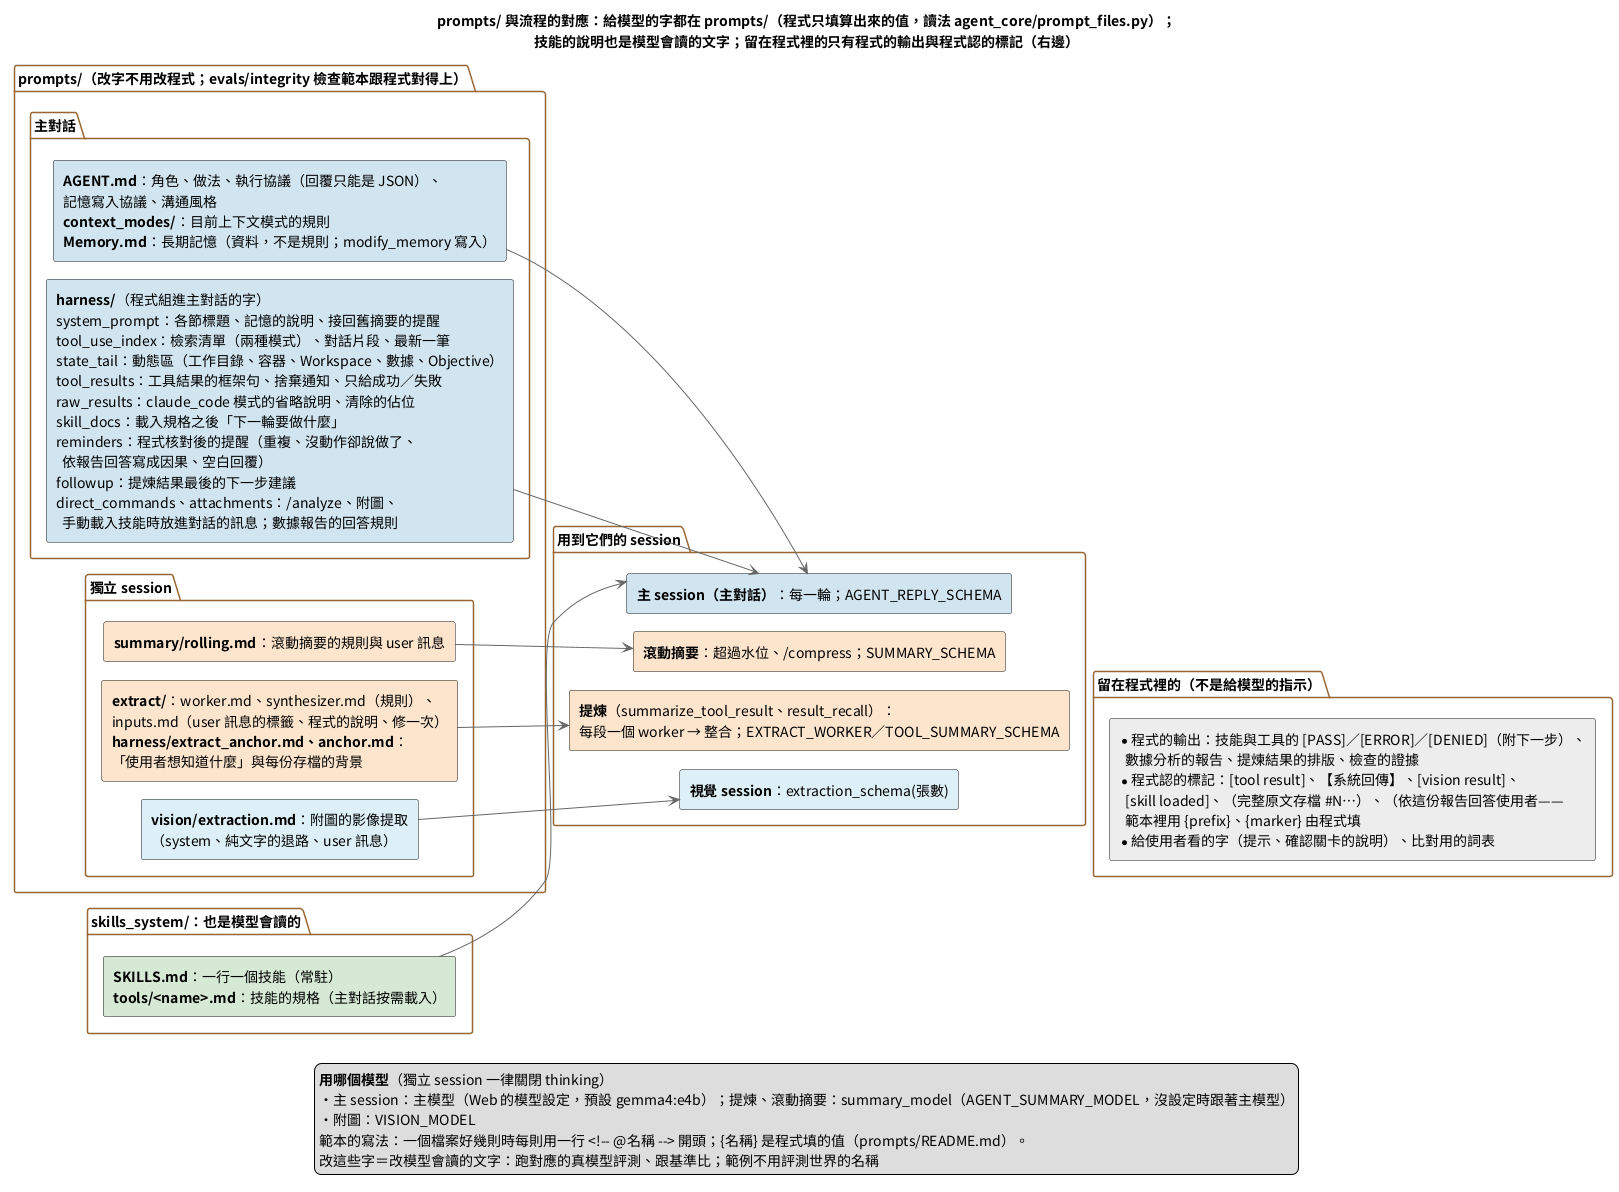
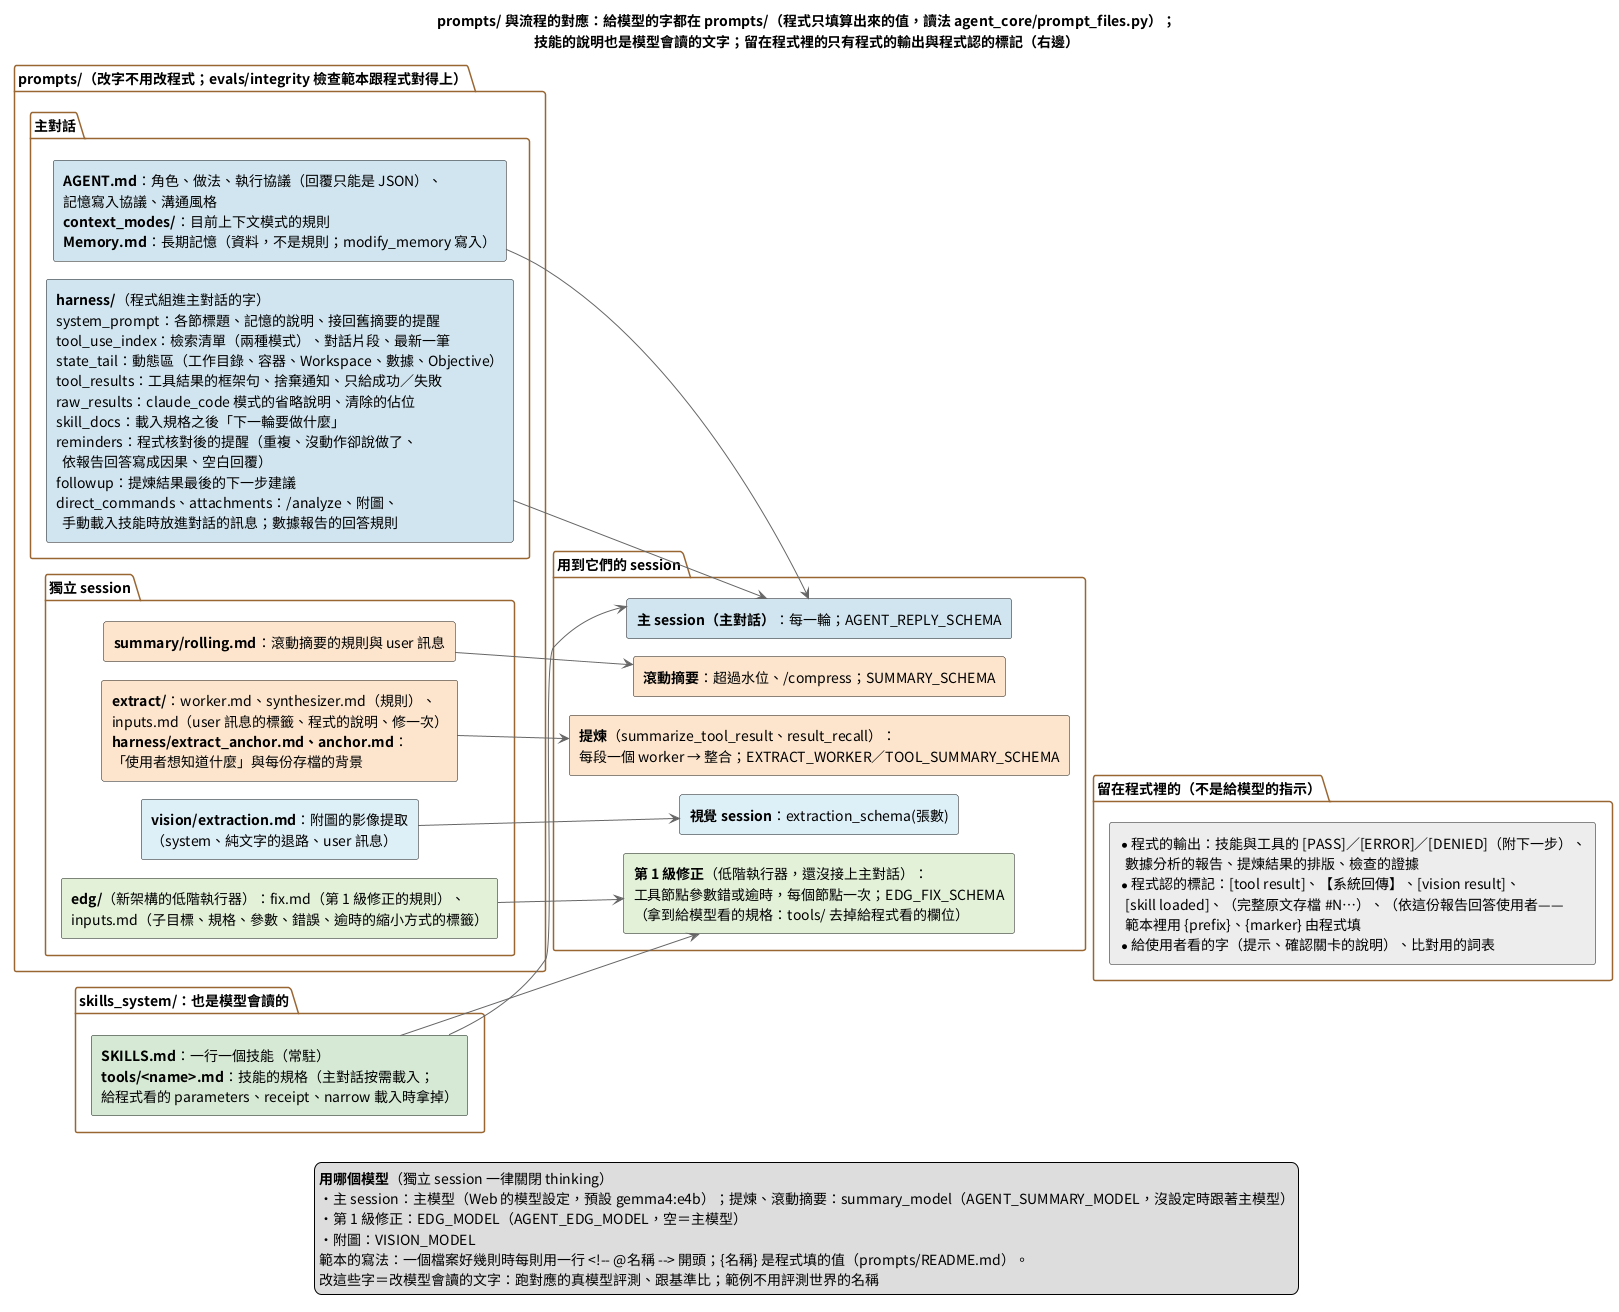
Add draft for Step 3: Intermediate Skills and Workflow
- Introduced a draft for Step 3, outlining the structure and requirements for intermediate skills.
- Detailed the file structure, composite skill specifications, and the workflow for selecting and executing skills.
- Included examples and strategies for using the new skills, emphasizing the need for user confirmation before implementation.
- Updated documentation to reflect changes and ensure clarity on the new processes and expectations.

Changed region(s): [[0.0, 0.031, 1.0, 0.9933], [0.2779, 0.0, 0.7103, 0.0621]]

diff --git a/doc/README.md b/doc/README.md
@@ -24,7 +24,7 @@
 | ![一回合](images/AI_agent_harness的狀態轉移.png) | `diagrams/AI_agent_harness的狀態轉移.puml` | 一回合的狀態機；`/analyze` 直接指定；確認關卡擋哪些；Dispatch 的偽技能；附圖時的視覺提取（1b），以及附圖分析在 prompt、壓縮、下一句話裡的位置 |
 | ![工具回傳管線](images/AI_agent_harness的工具回傳管線.png) | `diagrams/AI_agent_harness的工具回傳管線.puml` | 原文存檔（第一版領域的腳本另外寫收據給程式讀）→ 規格文件、提煉過的、程式整理好的報告（數據分析）直接給原文 → 太長的提煉（程式切段 → 每段一個 worker → 整合，程式核對行號）→ 檢索清單 → result_recall；退路（`/summarize off`、提煉沒成功、重點不比原文短）；中段是附圖的影像分析（提取 → 存成 #編號 → 〔附圖分析〕進清單 → 併進訊息），同一套 recall |
 | ![數據分析的流程](images/數據診斷的流程.png) | `diagrams/數據診斷的流程.puml` | 數據分析（事實報告）的完整流程（活動圖）：收到問題 → 資料預備與事實（超過 3 分鐘先切；字串裡的 JSON 展開成 Key；程式量全部 Topic 的全部 Key、整理成有編號的事實）→ 重點（程式照規則寫：每個重要的時間點一則）→ 報告 → 主對話依報告回答與程式的核對（之後的回合也核對）；藍＝程式、橘＝模型、綠＝程式核對，底部是程式做的與模型做的；第九輪的流程圖在 `archive/root_cause_reference/doc/` |
-| ![prompts 與流程的對應](images/prompts與流程的對應.png) | `diagrams/prompts與流程的對應.puml` | 給模型的字都在 `prompts/`：主對話（AGENT.md、context_modes/、Memory.md、harness/）與各種獨立 session（summary/、extract/、vision/）各用哪些檔案，誰組 prompt、輸出的 schema；`skills_system/` 的 SKILLS.md、技能規格也是模型會讀的；留在程式裡的只有程式的輸出（工具結果、報告、[ERROR]）與程式認的標記；各 session 用哪個模型 |
+| ![prompts 與流程的對應](images/prompts與流程的對應.png) | `diagrams/prompts與流程的對應.puml` | 給模型的字都在 `prompts/`：主對話（AGENT.md、context_modes/、Memory.md、harness/）與各種獨立 session（summary/、extract/、vision/、新架構的第 1 級修正 edg/）各用哪些檔案，誰組 prompt、輸出的 schema；`skills_system/` 的 SKILLS.md、技能規格也是模型會讀的；留在程式裡的只有程式的輸出（工具結果、報告、[ERROR]）與程式認的標記；各 session 用哪個模型 |
 
 改完 `.puml` 後重新產生 PNG，一律用本機離線渲染（不要用線上的 PlantUML 伺服器：圖的內容會離開這台機器）。`~/tools/plantuml/` 放了 Temurin JRE 21 與
 plantuml.jar（1.2026.8，從 Maven Central 下載）；這台機器沒有 Microsoft JhengHei，字型換成系統的 Noto Sans CJK TC 再渲染
